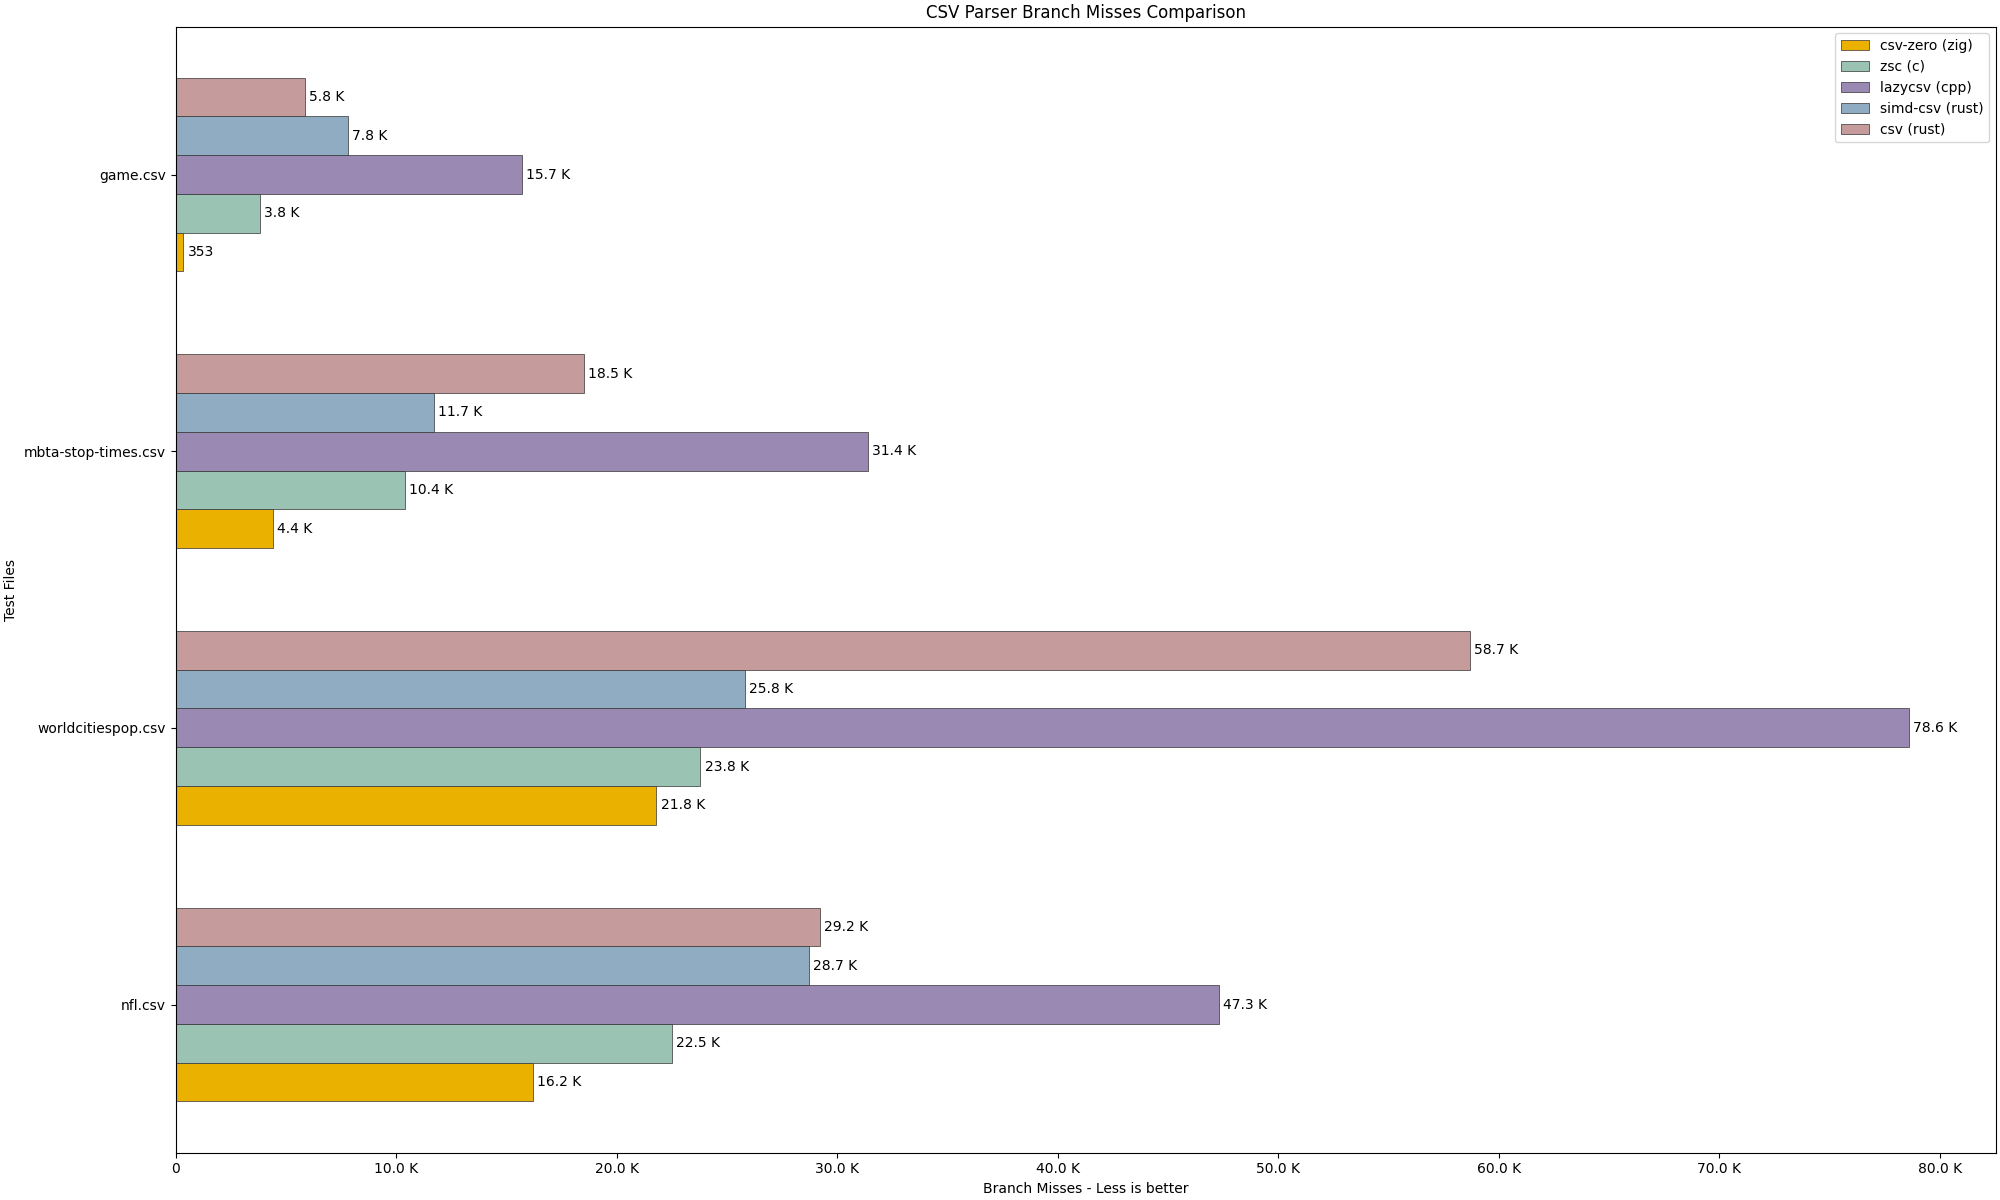
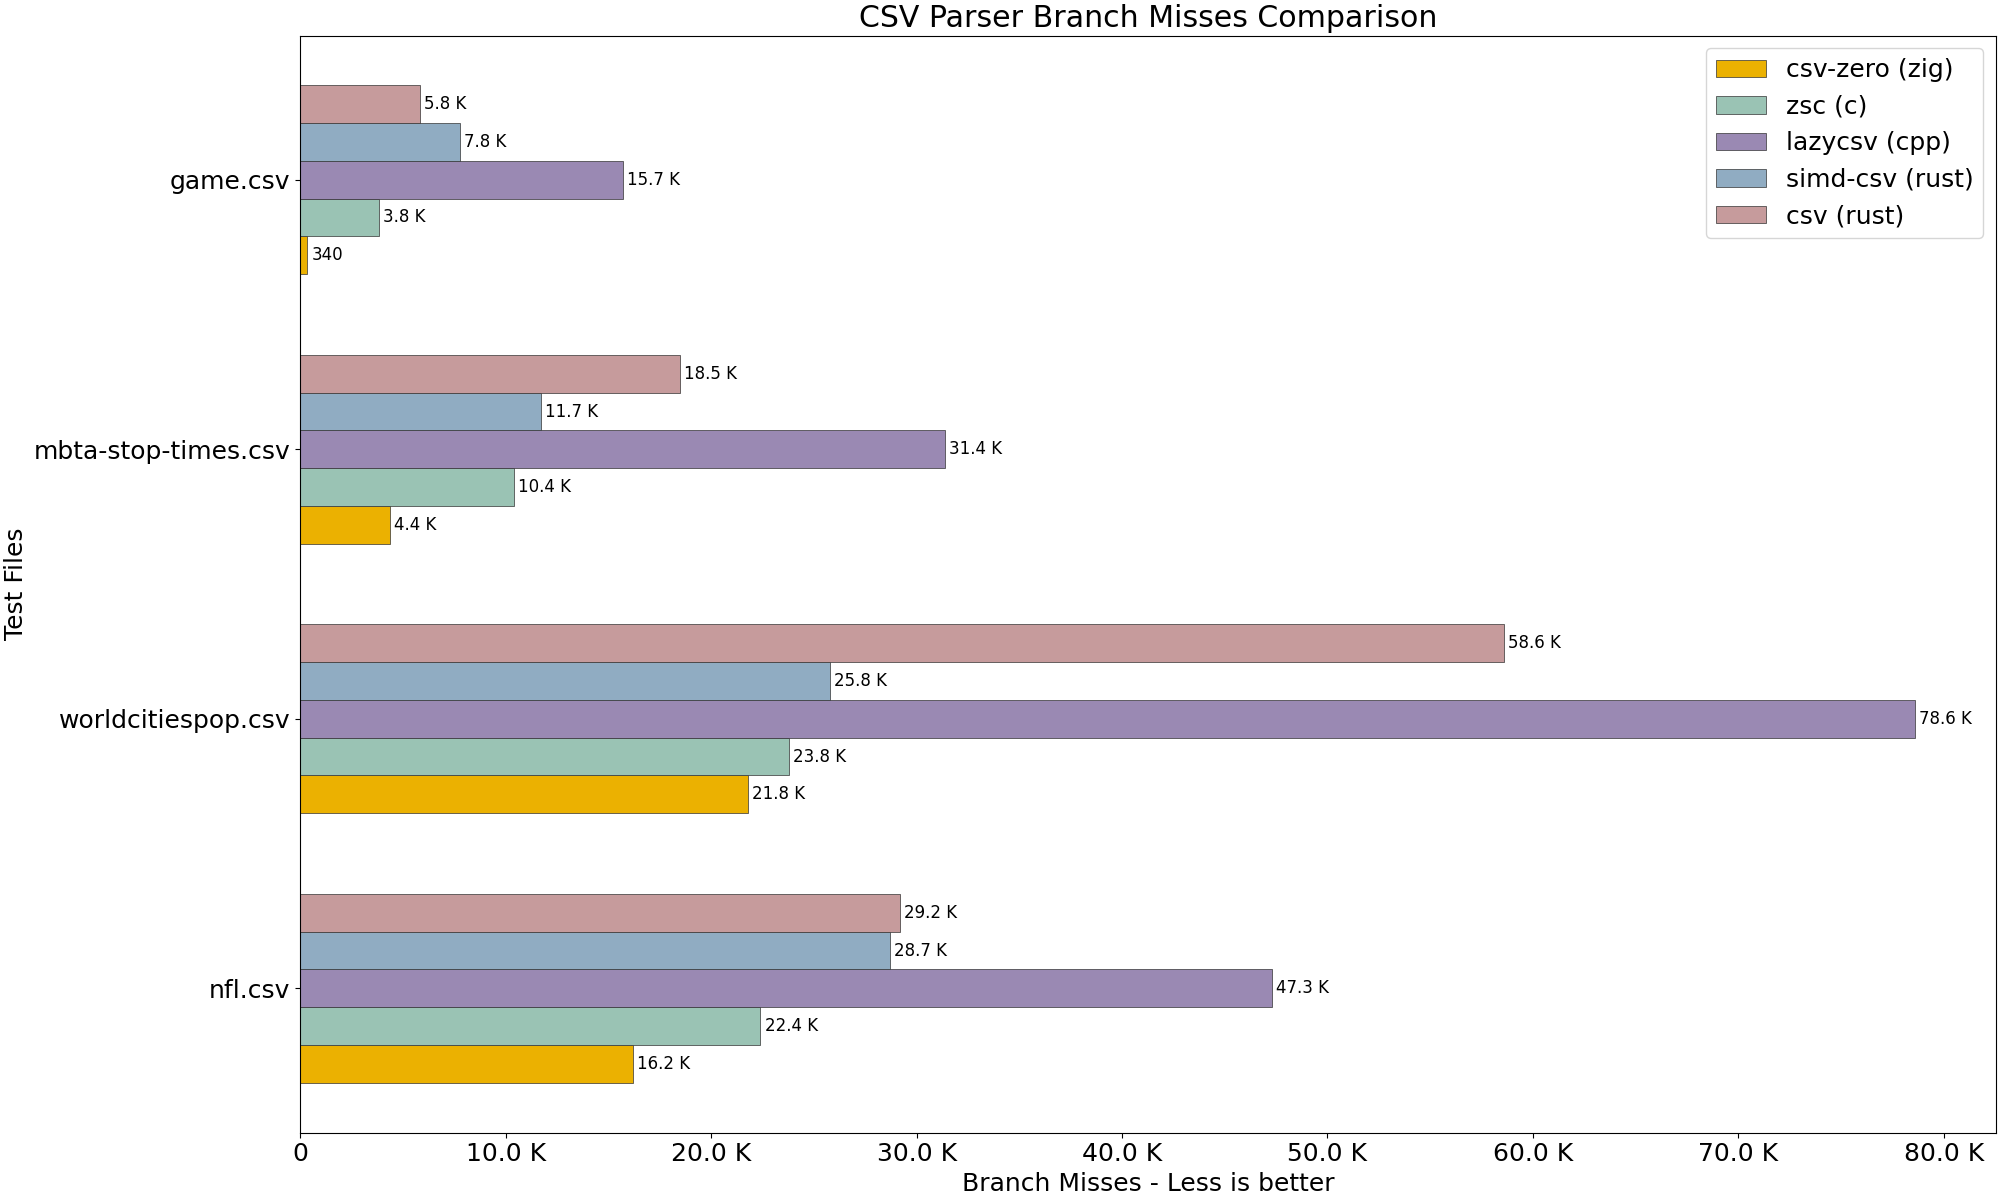
changes

diff --git a/generate_charts.py b/generate_charts.py
@@ -5,7 +5,7 @@ import subprocess
 import matplotlib.pyplot as plt
 from matplotlib.ticker import FuncFormatter
 
-
+BAR_CHART = True
 TEST_FILES = [
     # {
     #     'path': './data/gen/xs_mix_quotes_12_col_0_32.csv',
@@ -23,41 +23,33 @@ TEST_FILES = [
     #     'path': './data/gen/m_no_quotes_52_col_0_256.csv',
     #     'name': 'M No Quotes, 52 col, 0-256 chars',
     # },
-    {
-        'path': './data/gen/xl_mix_quotes_12_col_0_32.csv',
-        'name': 'XL Mix Quotes, 12 col, 0-32 chars',
-    },
-    {
-        'path': './data/gen/xl_mix_quotes_2_col_0_12_many_rows.csv',
-        'name': 'XL Mix Quotes, 2 col, 0-12 chars, many rows',
-    },
-    {
-        'path': './data/gen/xl_no_quotes_52_col_0_256.csv',
-        'name': 'XL No Quotes, 52 col, 0-256 chars',
-    },
     # {
-    #     'path': './data/nfl.csv',
-    #     'name': 'nfl.csv',
+    #     'path': './data/gen/xl_mix_quotes_12_col_0_32.csv',
+    #     'name': 'XL Mix Quotes, 12 col, 0-32 chars',
     # },
     # {
-    #     'path': './data/worldcitiespop.csv',
-    #     'name': 'worldcitiespop.csv',
+    #     'path': './data/gen/xl_mix_quotes_2_col_0_12_many_rows.csv',
+    #     'name': 'XL Mix Quotes, 2 col, 0-12 chars, many rows',
     # },
     # {
-    #     'path': './data/gtfs-mbta-stop-times.csv',
-    #     'name': 'mbta-stop-times.csv',
+    #     'path': './data/gen/xl_no_quotes_52_col_0_256.csv',
+    #     'name': 'XL No Quotes, 52 col, 0-256 chars',
     # },
-    # {
-    #     'path': './data/game.csv',
-    #     'name': 'game.csv',
-    # },
+    {'path': './data/nfl.csv', 'name': 'nfl.csv'},
+    {'path': './data/worldcitiespop.csv', 'name': 'worldcitiespop.csv'},
+    {'path': './data/gtfs-mbta-stop-times.csv', 'name': 'mbta-stop-times.csv'},
+    {'path': './data/game.csv', 'name': 'game.csv'},
 ]
 PARSERS = [
-    {'name': 'zcsv (zig)', 'path':  './src/zig/zig-out/bin/zcsv', 'bar_color': '#EBB101'},
+    {'name': 'csv-zero (zig)', 'path':  './src/zig/zig-out/bin/csvzero', 'bar_color': '#EBB101'},
     {'name': 'zsc (c)', 'path': './src/c/zsv/count_fields', 'bar_color': '#9AC3B4'},
     {'name': 'lazycsv (cpp)', 'path':  './src/cpp/lazycsv/count_fields', 'bar_color': '#9A89B3'},
     {'name': 'simd-csv (rust)', 'path':  './src/rust/simd-csv/target/release/count_fields', 'bar_color': '#90ACC2'},
     {'name': 'csv (rust)', 'path':  './src/rust/csv/target/release/count_fields', 'bar_color': '#C69B9C'},
+    # {'name': 'csv-parser (cpp)', 'path':  './src/cpp/csv-parser/count_fields', 'bar_color': '#7ADC70'},
+    # {'name': 'rapidcsv (cpp)', 'path':  './src/cpp/rapidcsv/count_fields', 'bar_color': '#2787F4'},
+    # {'name': 'csv (go)', 'path':  './src/go/count_fields', 'bar_color': '#F51200'},
+    # {'name': 'csv-core (rust)', 'path':  './src/rust/csv_core/target/release/count_fields', 'bar_color': '#029428'},
 ]
 POOP_PATH = '/home/peyman/Downloads/x86_64-linux-poop'
 
@@ -200,6 +192,7 @@ def create_charts(tests: dict):
                 val = metric_details['parse_func'](info[metric])
                 test_data[parser].append(val)
 
+        plt.rcParams.update({'font.size': 18})
         fig, ax = plt.subplots(layout='constrained', figsize=(20, 12))
         height = 0.14
         num_parsers = len(test_data)
@@ -210,23 +203,33 @@ def create_charts(tests: dict):
             name = parser['name']
             values = test_data[name]
             # Offset each parser's bars so they stack next to each other
-            offset = (index - num_parsers/2 + 0.5) * height
-            y_pos = [y + offset for y in y_positions]
-            rects = ax.barh(y_pos, values,
-                            height=height,
-                            label=name,
-                            color=parser['bar_color'],
-                            edgecolor='#333',
-                            linewidth=0.5)
-            ax.bar_label(rects, padding=3, fmt=metric_details['display_func'])
-            index += 1
+            if BAR_CHART:
+                offset = (index - num_parsers/2 + 0.5) * height
+                y_pos = [y + offset for y in y_positions]
+                rects = ax.barh(y_pos, values,
+                                height=height,
+                                label=name,
+                                color=parser['bar_color'],
+                                edgecolor='#333',
+                                linewidth=0.5)
+                ax.bar_label(rects, padding=3, fmt=metric_details['display_func'], fontsize=12)
+                index += 1
+            else:
+                ax.plot(test_names, values, '-x', color=parser['bar_color'])
 
-        ax.set_yticks(y_positions)
-        ax.set_yticklabels(test_names)
-        ax.set_xlabel(metric_details['x'])
-        ax.set_ylabel("Test Files")
+        if BAR_CHART:
+            ax.set_yticks(y_positions)
+            ax.set_yticklabels(test_names)
+            ax.set_xlabel(metric_details['x'])
+            ax.set_ylabel("Test Files")
+            ax.xaxis.set_major_formatter(FuncFormatter(metric_details['display_func']))
+        else:
+            ax.set_xticks(y_positions)
+            ax.set_xticklabels(test_names)
+            ax.set_ylabel(metric_details['x'])
+            ax.set_xlabel("Test Files")
+            ax.yaxis.set_major_formatter(FuncFormatter(metric_details['display_func']))
         ax.set_title(metric_details['title'])
-        ax.xaxis.set_major_formatter(FuncFormatter(metric_details['display_func']))
         plt.gcf().set_dpi(200)
         plt.legend(test_data.keys())
         plt.savefig(f'images/{metric}.png')
